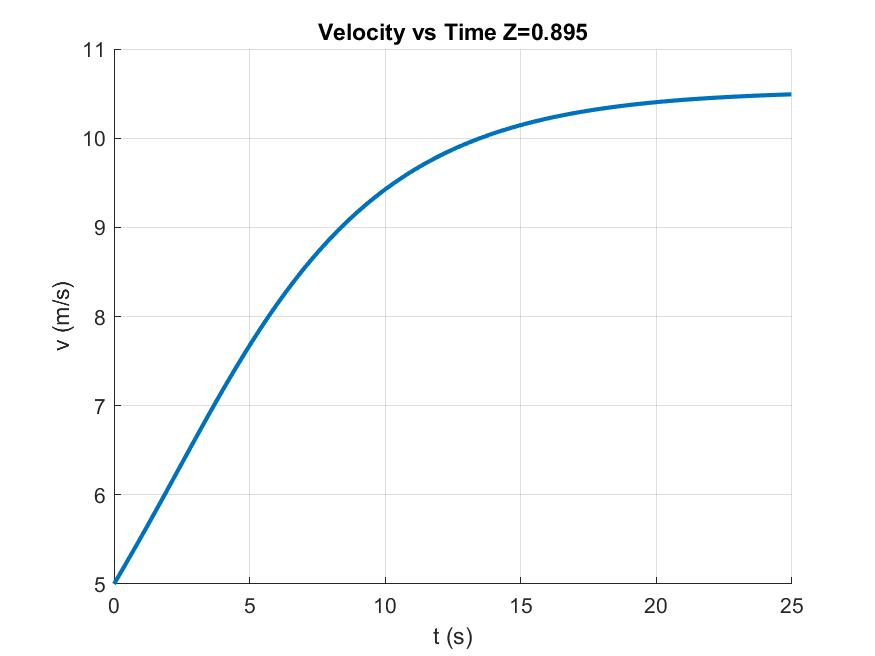
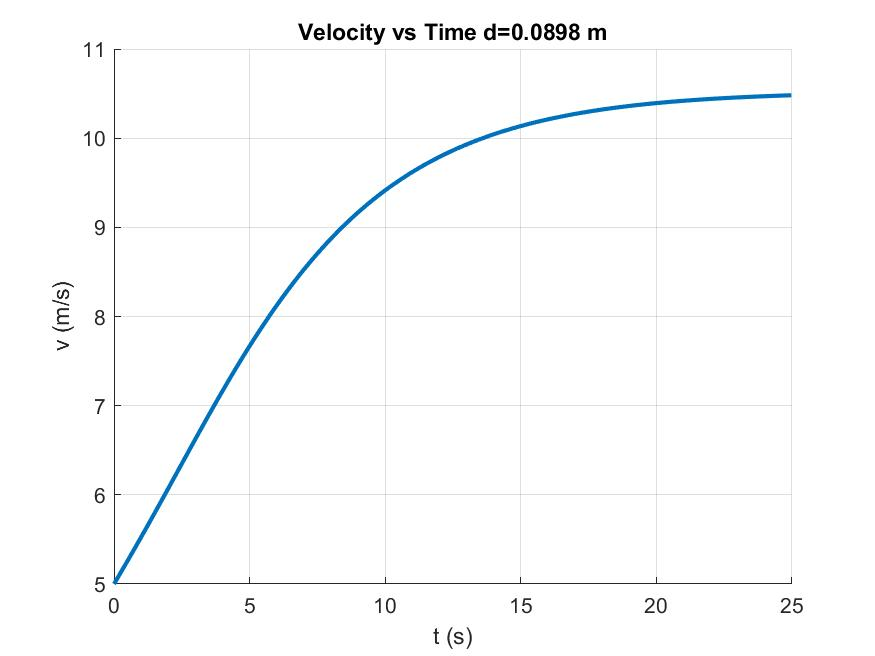
Design Parameter Changed to Wheel Diameter

diff --git a/SearchWindSpeeds.m b/SearchWindSpeeds.m
@@ -1,22 +1,22 @@
-function SearchWindSpeeds(fan, v_w_range, Z_fixed, Z_range, F_d)
-	Z_best_range = zeros(size(v_w_range));
+function SearchWindSpeeds(fan, v_w_range, d_fixed, d_range, F_d)
+	d_best_range = zeros(size(v_w_range));
 	v_top_range = zeros(size(v_w_range));
 	v_fixed_range = zeros(size(v_w_range));
 	for k = 1:length(v_w_range)
 		air = Air(v_w_range(k));
-		[Z_best, v_top] = BestTransmissionRatio(air, fan, Z_range, F_d);
-		Z_best_range(k) = Z_best;
+		[Z_best, v_top] = BestWheelDiameter(air, fan, d_range, F_d);
+		d_best_range(k) = Z_best;
 		v_top_range(k) = v_top;
-		v_fixed_range(k) = TopSpeed(Vehicle(air, fan, Z_fixed, F_d));
+		v_fixed_range(k) = TopSpeed(Vehicle(air, fan, d_fixed, F_d));
 	end
 	figure();
 	hold('on');
 	grid('on');
-	title('Best Transmission Ratio vs Wind Speed');
+	title('Best Wheel Diameter vs Wind Speed');
 	xlabel('v_w (m/s)');
-	ylabel('Z_{best}');
-	plot(v_w_range, Z_best_range, 'LineWidth', 2);
-	saveas(gcf, 'Best Transmission Ratio vs Wind Speed', 'jpeg');
+	ylabel('d_{best} (m)');
+	plot(v_w_range, d_best_range, 'LineWidth', 2);
+	saveas(gcf, 'Best Wheel Diameter vs Wind Speed', 'jpeg');
 	figure();
 	hold('on');
 	grid('on');
@@ -25,6 +25,6 @@ function SearchWindSpeeds(fan, v_w_range, Z_fixed, Z_range, F_d)
 	ylabel('v_{top} (m/s)');
 	plot(v_w_range, v_top_range, 'LineWidth', 2);
 	plot(v_w_range, v_fixed_range, 'LineWidth', 2);
-	legend('Z=Z_{best}(v_w)', sprintf('Z=%.3f', Z_fixed), 'Location', 'Best');
+	legend('d=d_{best}(v_w)', sprintf('d=%.4f m', d_fixed), 'Location', 'Best');
 	saveas(gcf, 'Top Speed vs Wind Speed', 'jpeg');
 end

diff --git a/Main.m b/Main.m
@@ -20,22 +20,22 @@ fprintf(fileID, fan.RootMeanSquare());
 
 F_d = DragForce(fileID);
 
-Z_min = 0.7;
-Z_max = 1;
-Z_step = 0.001;
-Z_range = Z_min:Z_step:Z_max;
-fprintf(fileID, 'Z_min=%.3f Z_max=%.3f Z_step=%.3f\n', Z_min, Z_max, Z_step);
+d_min = 10e-3;
+d_max = 1000e-3;
+d_step = 0.1e-3;
+d_range = d_min:d_step:d_max;
+fprintf(fileID, 'd_min=%.4f m d_max=%.4f m d_step=%.4f m\n', d_min, d_max, d_step);
 
 air = Air(5);
-[v_top, Z_best] = SearchTransmissionRatios(air, fan, 0.2:0.001:5, F_d);
-vehicle = Vehicle(air, fan, Z_best, F_d);
+[v_top, d_best] = SearchWheelDiameters(air, fan, d_range, F_d);
+vehicle = Vehicle(air, fan, d_best, F_d);
 v = Simulate(vehicle, 25);
 [v_min, v_max] = vehicle.SpeedBoundary();
-fprintf(fileID, 'Z=%.3f v_top=%.3fm/s B=[%.3f, %.3f]m/s\n', Z_best, v_top, v_min, v_max);
+fprintf(fileID, 'd=%.4f m v_top=%.4fm/s B=[%.4f, %.4f]m/s\n', d_best, v_top, v_min, v_max);
 
 VelocityRelations(vehicle);
 
-SearchWindSpeeds(fan, 1:0.1:10, Z_best, Z_range, F_d);
+SearchWindSpeeds(fan, 1:0.1:10, d_best, 70e-3:d_step:95e-3, F_d);
 
 toc();
 

diff --git a/Simulate.m b/Simulate.m
@@ -8,7 +8,7 @@ function v_range = Simulate(vehicle, t_f)
 	plot(t_range, v_range, 'LineWidth', 2);
 	xlabel('t (s)');
 	ylabel('v (m/s)');
-	title(sprintf('Velocity vs Time Z=%.3f', vehicle.Z));
+	title(sprintf('Velocity vs Time d=%.4f m', vehicle.d));
 	saveas(gcf, 'Velocity vs Time', 'jpeg');
 	figure();
 	hold('on');
@@ -16,7 +16,7 @@ function v_range = Simulate(vehicle, t_f)
 	plot(t_range, a_range, 'LineWidth', 2);
 	xlabel('t (s)');
 	ylabel('a (m/s^2)');
-	title(sprintf('Acceleration vs Time Z=%.3f', vehicle.Z));
+	title(sprintf('Acceleration vs Time d=%.4f m', vehicle.d));
 	saveas(gcf, 'Acceleration vs Time', 'jpeg');
 	figure();
 	hold('on');
@@ -29,7 +29,7 @@ function v_range = Simulate(vehicle, t_f)
 	plot(t_range, F_net_range, 'LineWidth', 2);
 	xlabel('t (s)');
 	ylabel('F (N)');
-	title(sprintf('Forces vs Time Z=%.3f', vehicle.Z));
+	title(sprintf('Forces vs Time d=%.4f m', vehicle.d));
 	legend('F_t', 'F_d', 'F_q', 'F_s', 'F_c', 'F_{net}', 'Location', 'Best');
 	saveas(gcf, 'Forces vs Time', 'jpeg');
 end

diff --git a/VelocityRelations.m b/VelocityRelations.m
@@ -13,7 +13,7 @@ function v_range = VelocityRelations(vehicle)
 	plot(v_range(k_range), a_range(k_range), 'LineWidth', 2);
 	ylabel('a (m/s^2)');
 	xlabel('v (m/s)');
-	title(sprintf('Acceleration vs Velocity Z=%.3f', vehicle.Z));
+	title(sprintf('Acceleration vs Velocity d=%.4f m', vehicle.d));
 	saveas(gcf, 'Acceleration vs Velocity', 'jpeg');
 	figure();
 	hold('on');
@@ -26,7 +26,7 @@ function v_range = VelocityRelations(vehicle)
 	plot(v_range(k_range), F_net_range(k_range), 'LineWidth', 2);
 	ylabel('F (N)');
 	xlabel('v (m/s)');
-	title(sprintf('Forces vs Velocity Z=%.3f', vehicle.Z));
+	title(sprintf('Forces vs Velocity d=%.4f m', vehicle.d));
 	legend('F_t', 'F_d', 'F_q', 'F_s', 'F_c', 'F_{net}', 'Location', 'Best');
 	saveas(gcf, 'Forces vs Velocity', 'jpeg');
 end

diff --git a/SearchWheelDiameters.m b/SearchWheelDiameters.m
@@ -1,0 +1,18 @@
+function [v_top, d_top] = SearchWheelDiameters(air, fan, d_range, F_d)
+	v_range = zeros(size(d_range));
+	for k = 1:length(d_range)
+		vehicle = Vehicle(air, fan, d_range(k), F_d);
+		[v_min, v_max] = vehicle.SpeedBoundary();
+		v_range(k) = BisectionMethod(@(v) vehicle.Acceleration(v), v_min, v_max, 1e-6, 1e3);
+	end
+	[v_top, k_top] = max(v_range);
+	d_top = d_range(k_top);
+	figure();
+	hold('on');
+	grid('on');
+	title('Top Speed vs Wheel Diameter');
+	xlabel('d (m)');
+	ylabel('v_{top} (m/s)');
+	plot(d_range, v_range, 'LineWidth', 2);
+	saveas(gcf, 'Top Speed vs Wheel Diameter', 'jpeg');
+end

diff --git a/BestWheelDiameter.m b/BestWheelDiameter.m
@@ -1,0 +1,13 @@
+function [d_best, v_top] = BestWheelDiameter(air, fan, d_range, F_d)
+    v_top_range = zeros(size(d_range));
+    for k = 1:length(d_range)
+        vehicle = Vehicle(air, fan, d_range(k), F_d);
+        v_top_range(k) = TopSpeed(vehicle);
+    end
+	[v_top, k_best] = max(v_top_range);
+	if isnan(v_top)
+		d_best = NaN;
+	else
+        d_best = d_range(k_best);
+	end
+end

diff --git a/Vehicle.m b/Vehicle.m
@@ -11,12 +11,12 @@ classdef Vehicle
 		mul_c
 	end
 	methods
-		function self = Vehicle(air, fan, Z, F_d)
+		function self = Vehicle(air, fan, d, F_d)
 			self.air = air;
 			self.fan = fan;
 			L = 35e-2;
-			self.d = 100e-3;
-			self.Z = Z;
+			self.d = d;
+			self.Z = 1;
 			self.F_d = F_d;
 			m_wheel = 50e-3;
 			I_wheel = m_wheel*self.d^2/8;
